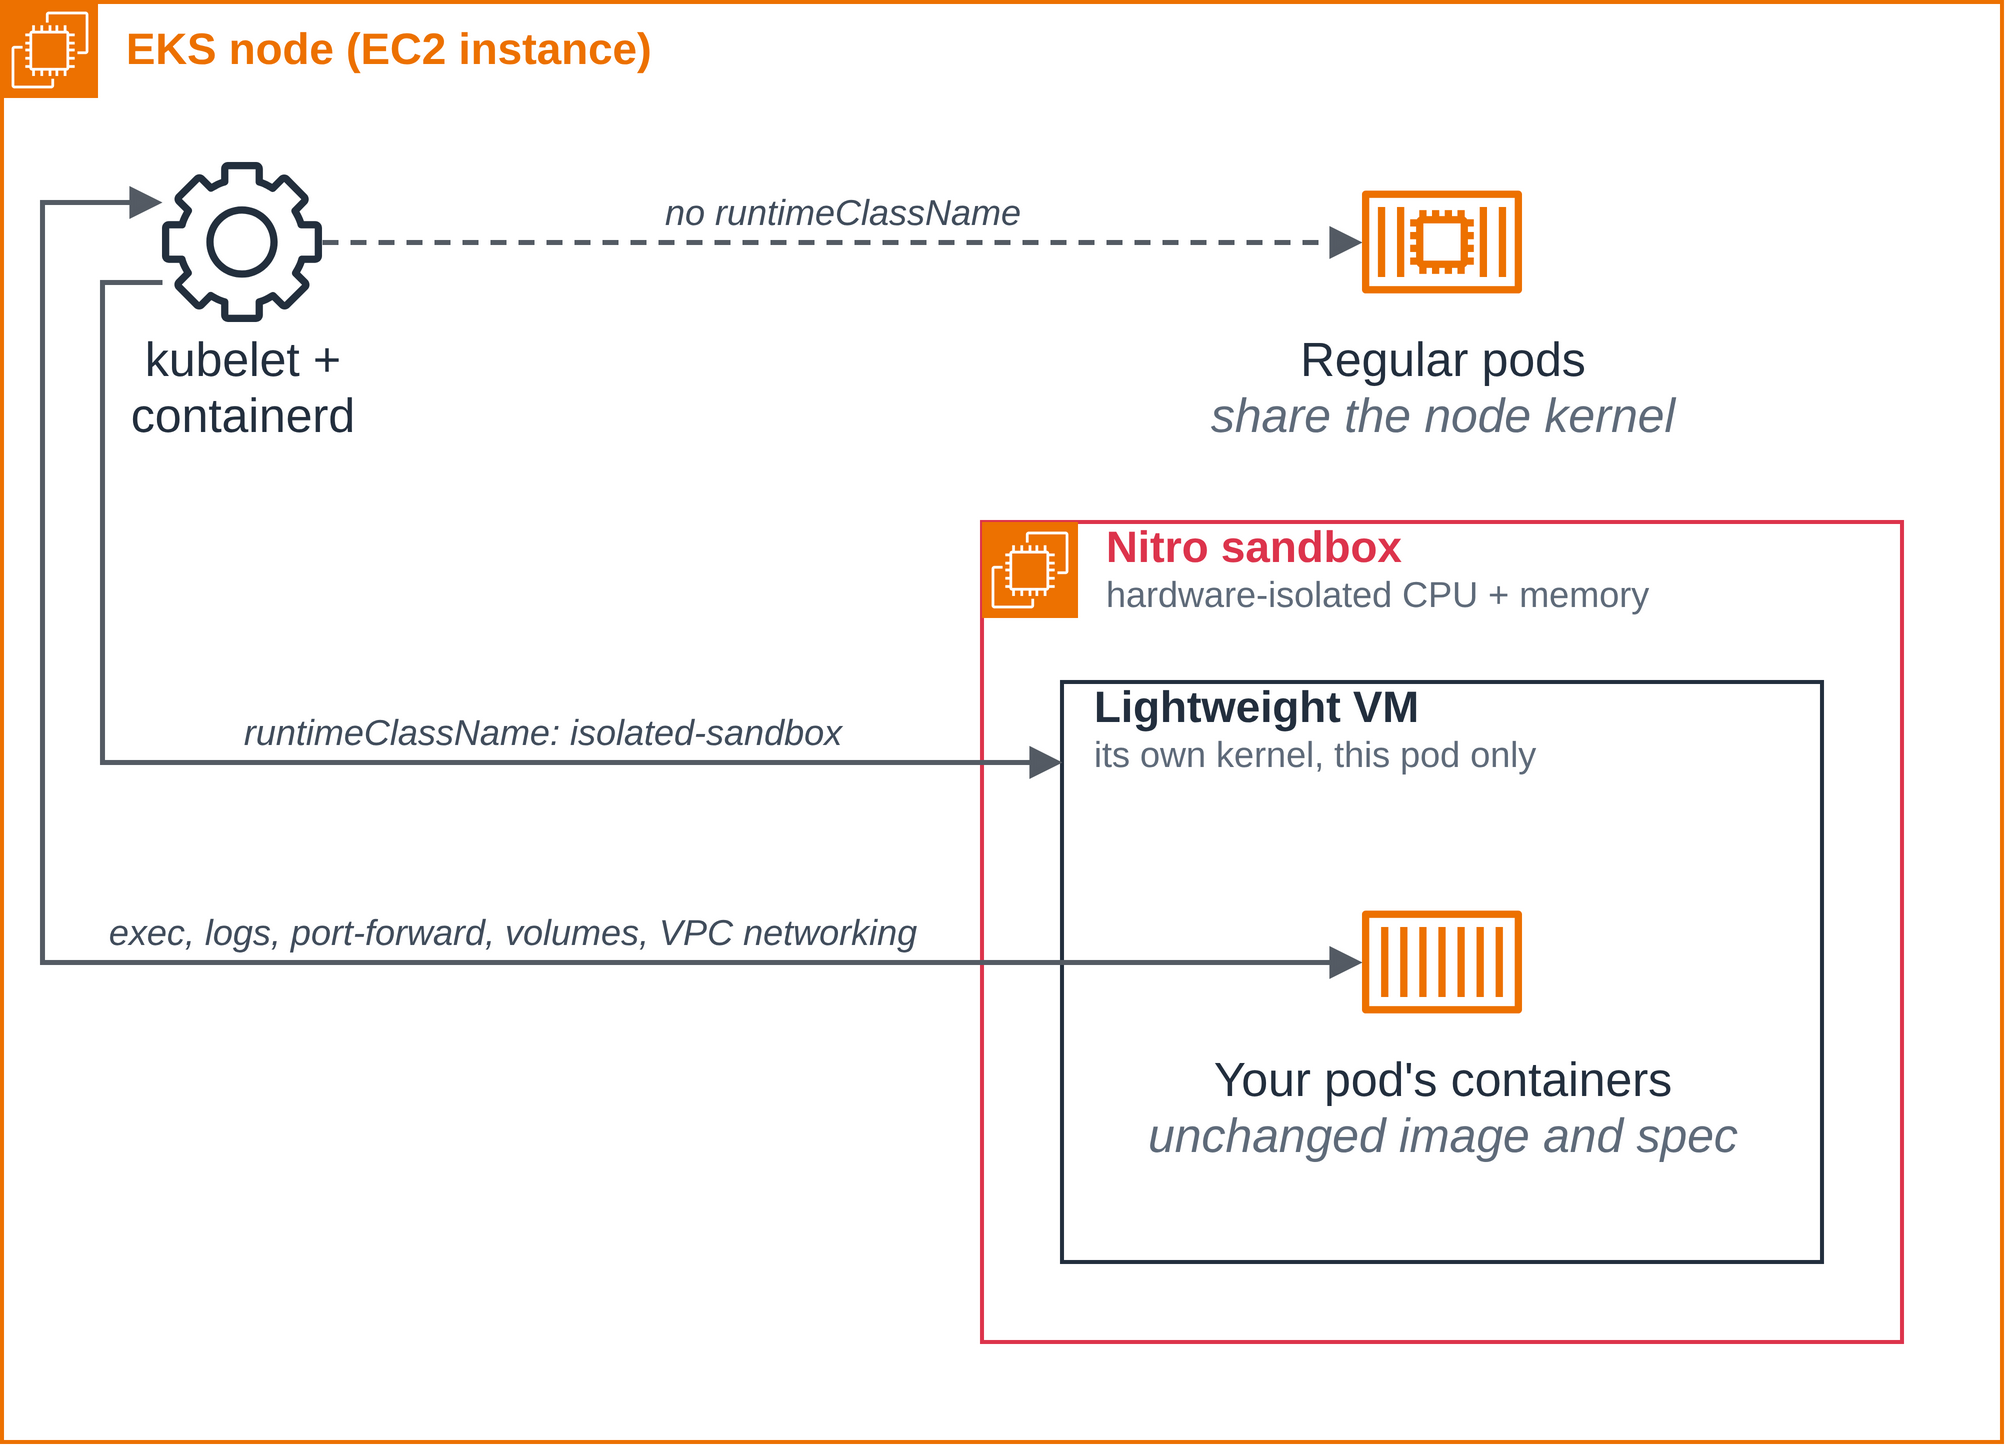
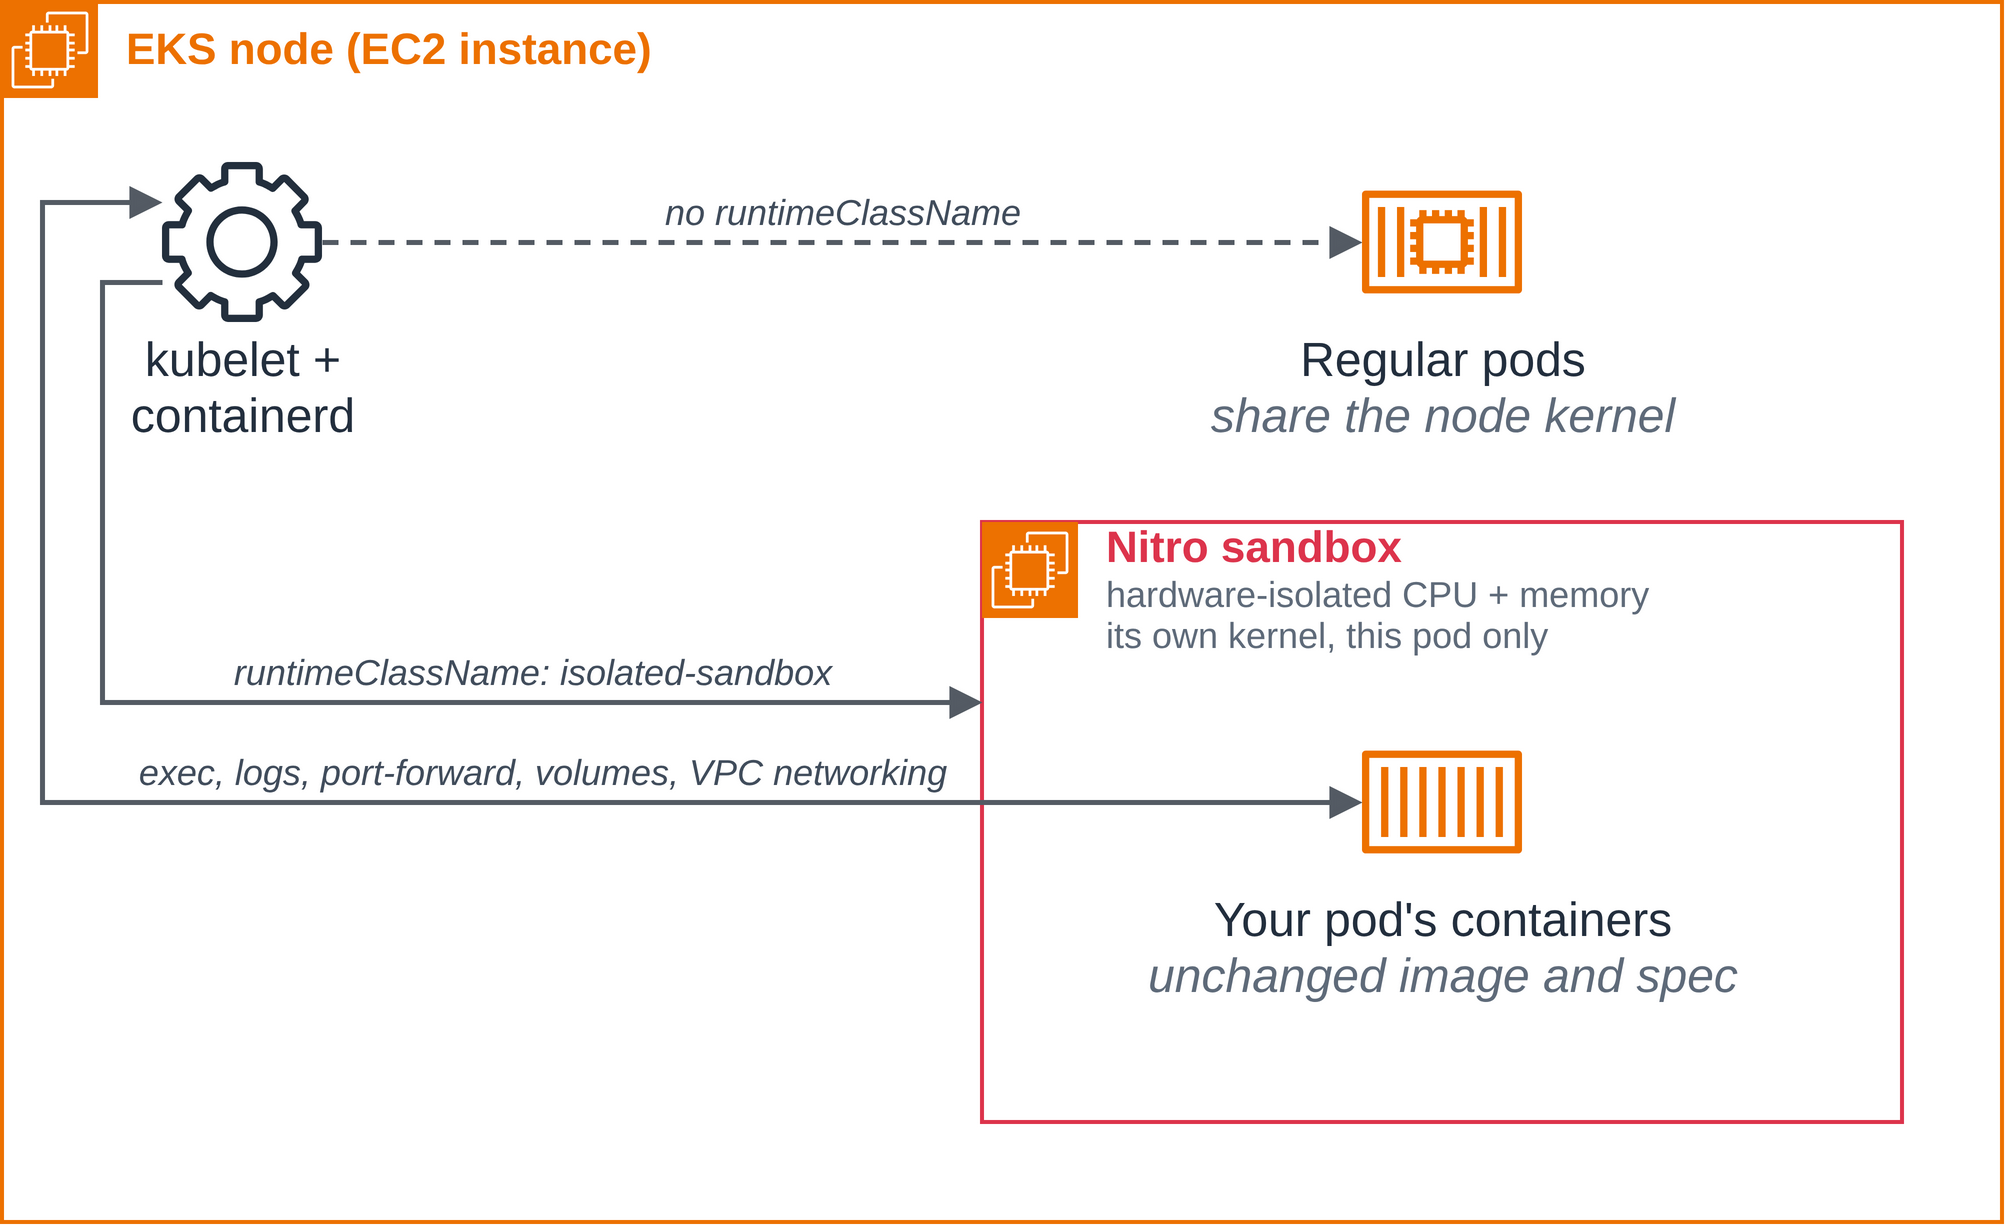
Collapse the nested Lightweight VM frame into the Nitro sandbox frame (#117)
The Amazon EKS User Guide treats the Nitro sandbox and the lightweight VM as
the same thing, not one inside the other, so figure-1-isolation-boundary and
the network-policy sample's figure-1-network-policy drew a layer the guide
disclaims. Both figures now draw one frame labelled "Nitro sandbox" holding
the pod's containers (or the sandboxed client pod) directly, instead of
nesting a separate "Lightweight VM" / "lightweight VM" frame inside it.
Re-exported both PNGs with the engine and border already used for each file
(confirmed by a byte-identical control render of the unedited .drawio against
the previously committed PNG), updated the alt text that described the old
nesting, and corrected the one stale reference to it in the aws-diagrams
skill's house-style notes.

diff --git a/examples/isolation/network-policy/README.md b/examples/isolation/network-policy/README.md
@@ -49,7 +49,7 @@ sandbox, a lightweight VM with its own kernel; `client-standard` is an ordinary 
 on the node outside the guest, allows each client to CoreDNS and to `web-allowed`, and refuses
 `web-blocked` on both paths alike.*
 
-![An EKS Auto Mode node holds two client pods that one Kubernetes NetworkPolicy selects by the label app netpol-client: client-standard, an ordinary pod that shares the node kernel, and client-sandboxed, a Nitro sandbox pod, drawn inside a frame labelled Nitro sandbox and a box labelled lightweight VM, with runtimeClassName isolated-sandbox as the only differing field. Both clients make the same egress requests to two ordinary server pods reached by pod IP on ClusterIP port 8080, web-allowed and web-blocked, and to CoreDNS. The egress NetworkPolicy is drawn as an enforcement filter that the node's network policy agent applies on each pod's host-side interface, outside the guest; its allowed paths in green are each client to web-allowed on TCP 8080 and to CoreDNS on UDP and TCP 53, and its refused path in red dashed is each client to web-blocked, refused identically on the ordinary and the sandboxed path.](images/figure-1-network-policy.png)
+![An EKS Auto Mode node holds two client pods that one Kubernetes NetworkPolicy selects by the label app netpol-client: client-standard, an ordinary pod that shares the node kernel, and client-sandboxed, a Nitro sandbox pod, drawn inside a frame labelled Nitro sandbox, with runtimeClassName isolated-sandbox as the only differing field. Both clients make the same egress requests to two ordinary server pods reached by pod IP on ClusterIP port 8080, web-allowed and web-blocked, and to CoreDNS. The egress NetworkPolicy is drawn as an enforcement filter that the node's network policy agent applies on each pod's host-side interface, outside the guest; its allowed paths in green are each client to web-allowed on TCP 8080 and to CoreDNS on UDP and TCP 53, and its refused path in red dashed is each client to web-blocked, refused identically on the ordinary and the sandboxed path.](images/figure-1-network-policy.png)
 
 The files:
 

diff --git a/examples/README.md b/examples/README.md
@@ -43,7 +43,7 @@ Everything you control is a standard pod field:
 *Figure 1: The isolation boundary. A sandboxed pod runs in its own Nitro sandbox, a
 lightweight VM with its own kernel; the node's kubelet still sees an ordinary pod.*
 
-![Inside the EKS node, which is an EC2 instance, a frame labelled Nitro sandbox, hardware-isolated CPU and memory, holds a box labelled Lightweight VM, its own kernel, this pod only, and that box holds the pod's containers with their unchanged image and spec; the node's kubelet and containerd reach it through a runtimeClassName of isolated-sandbox for exec, logs, port-forward, volumes and VPC networking, while regular pods with no runtimeClassName keep sharing the node kernel directly.](images/figure-1-isolation-boundary.png)
+![Inside the EKS node, which is an EC2 instance, a frame labelled Nitro sandbox, hardware-isolated CPU and memory, its own kernel, this pod only, holds the pod's containers with their unchanged image and spec; the node's kubelet and containerd reach it through a runtimeClassName of isolated-sandbox for exec, logs, port-forward, volumes and VPC networking, while regular pods with no runtimeClassName keep sharing the node kernel directly.](images/figure-1-isolation-boundary.png)
 
 ## Prerequisites
 

diff --git a/.agents/skills/aws-diagrams/references/house-style.md b/.agents/skills/aws-diagrams/references/house-style.md
@@ -80,7 +80,8 @@ The tab cell is `fillColor=#ED7100;strokeColor=#ffffff;shape=mxgraph.aws4.resour
 48×48, with no value. Copy one from `assets/figure-template.drawio`.
 
 **Nesting** from outside in: AWS Cloud › EKS cluster (or EKS node) › Nitro sandbox › pod box › icons.
-F1 goes EKS node › Nitro sandbox › Lightweight VM › containers. Actors that are not AWS (a user, a
+F1 goes EKS node › Nitro sandbox › containers: the sandbox is the lightweight VM, not a layer
+inside it, so draw one frame, not two. Actors that are not AWS (a user, a
 GitHub issue, GitHub itself) sit outside the AWS Cloud frame: callers on the left, external
 services on the right (F2, F3). A third party's own control plane is a plain `#232F3E` box
 outside AWS (CMA).
